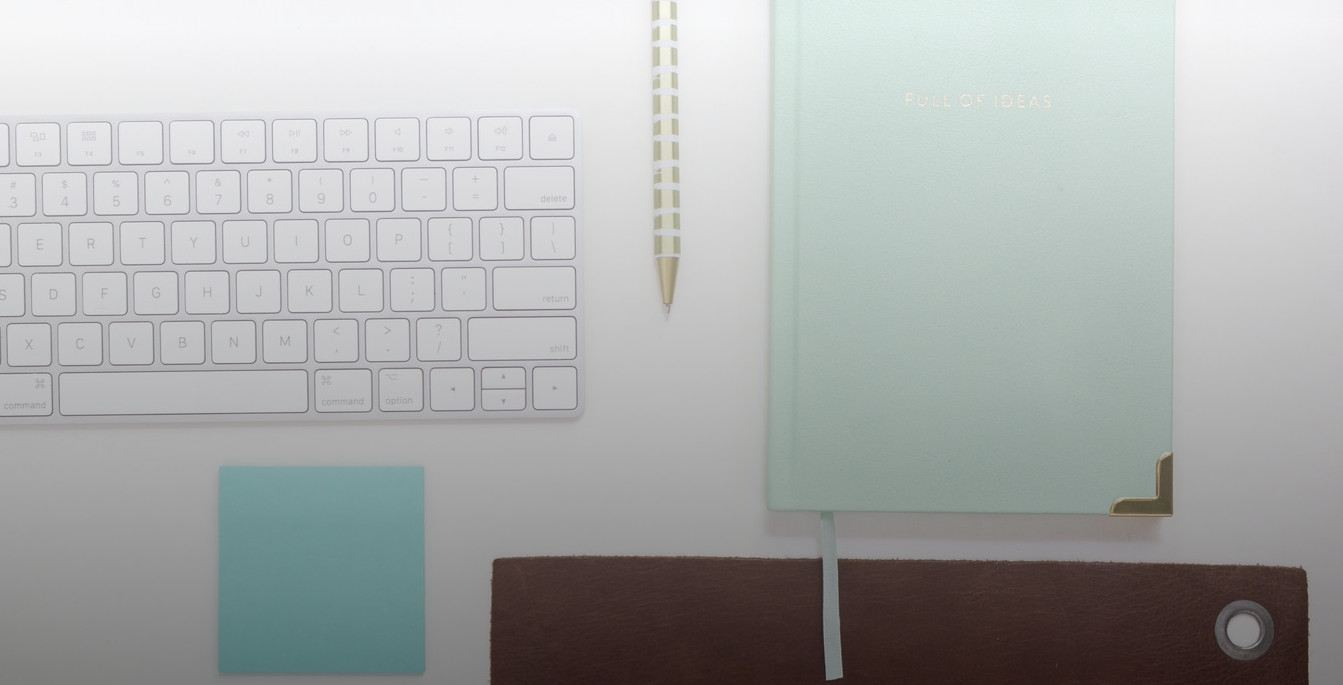
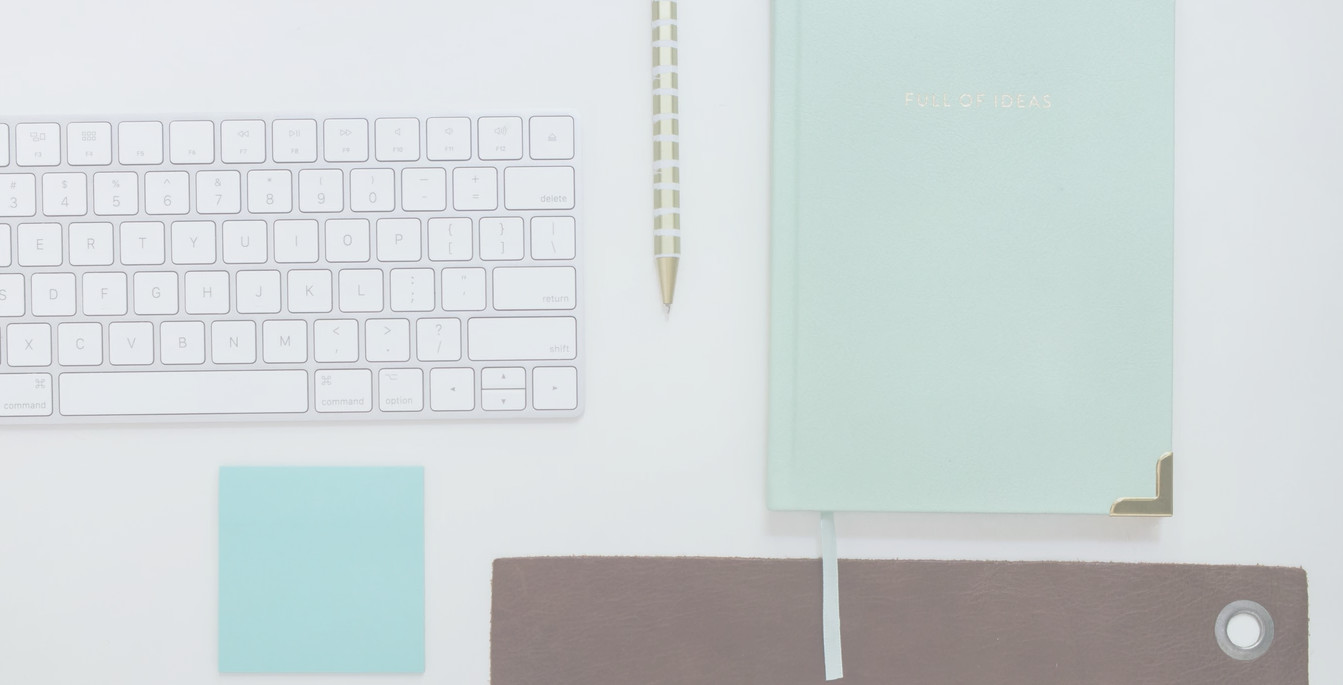
Update 6

diff --git a/assets/css/styles.css b/assets/css/styles.css
@@ -13,7 +13,8 @@
 #15aaa0
 linear-gradient( 175.9deg, #50606F 15%, #497C80 87.6%)
 linear-gradient( 175.9deg,rgba(125, 106, 96, 1) 15%, rgba(85,76,74,1) 87.6%)
-linear-gradient(to right, rgba(232, 241, 255, 0.7), rgba(219, 230, 245, 0.7))
+linear-gradient( 175.9deg, #8092a3 15%, #7aafb3 87.6%);
+
 */
 * {
     margin: 0;
@@ -201,7 +202,7 @@ nav ul li a:hover {
         width: 0;
         height: 100%;
         z-index: -1;
-        background: #fff;
+        background:  linear-gradient(to right, hsla(217, 100%, 97%, 1), hsla(215, 57%, 97%, 1));
         opacity: 0;
         transition: all 0.2s ease;
     }
@@ -327,12 +328,6 @@ nav ul li a:hover {
 https://images.unsplash.com/photo-1460620105278-b7f0516e6d65?ixlib=rb-0.3.5&s=d34783f025ae6d3e8fd5a4d8f932d748&auto=format&fit=crop&w=1350&q=80
 ---------------------------------------------------------------------------------------*/
 header {    
-    background: transparent linear-gradient(rgba(0, 0, 0, 0.5) 20%,rgba(126, 126, 126, 0.5) 100%);
-    background: transparent -moz-linear-gradient(rgba(0, 0, 0, 0.5) 20%,rgba(126, 126, 126, 0.5) 100%);
-    background: transparent -ms-linear-gradient(rgba(0, 0, 0, 0.5) 20%,rgba(126, 126, 126, 0.5) 100%);
-    background: transparent -webkit-linear-gradient(rgba(0, 0, 0, 0.5) 20%,rgba(126, 126, 126, 0.5) 100%);
-    background: transparent -o-linear-gradient(rgba(0, 0, 0, 0.5) 20%,rgba(126, 126, 126, 0.5) 100%);
-    
     background-size:cover;
     background-position: center; 
     background-attachment: fixed;    
@@ -616,7 +611,8 @@ input[type=submit]:active   {
     margin-top: 10px;
 }
 
-slider {    
+.slider slider,
+.text-slider slider {    
     position: relative;
     display: block;
     width: 100%;
@@ -627,9 +623,12 @@ slider {
     margin: 0;
     box-shadow: 0px 22px 68px -9px hsla(209, 16%, 67%, 0.6);
 }
-
+.text-slider slider {
+    background-color: #fff;
+}
 @media screen and (max-width:700px) {
-    slider {    
+    .slider slider,
+    .text-slider slider {    
         position: relative;
         display: block;
         width: 100%;  
@@ -639,9 +638,15 @@ slider {
         padding: 0;
         margin: 0;
     }
+    .text-slider slider {    
+        width: 100%;  
+        height: 200px;
+        background-color: #fff;
+    }
 }
 
-slider > * {    
+.slider slider > * ,
+.text-slider slider > * {    
     position: absolute;
     display: block;
     width: 100%;
@@ -650,8 +655,10 @@ slider > * {
     animation: slide 16s infinite;
     overflow: hidden;    
 }
-
-slide:nth-child(1) {
+.text-slider slider > * {    
+    background: #fff;
+}
+.slider slide:nth-child(1) {
     left: 0%;    
     animation-delay: 0s;
     background-image: url(../img/gabinet1.jpg);    
@@ -660,7 +667,7 @@ slide:nth-child(1) {
     background-position: center;
 }
 
-slide:nth-child(2) {    
+.slider slide:nth-child(2) {    
     animation-delay: 4s;
     background-image: url(../img/gabinet2.jpg);
     background-repeat: no-repeat;
@@ -668,7 +675,7 @@ slide:nth-child(2) {
     background-position: center;
 }
 
-slide:nth-child(3) {    
+.slider slide:nth-child(3) {    
     animation-delay: 8s;
     background-image: url(../img/gabinet3.jpg);
     background-repeat: no-repeat;
@@ -676,14 +683,26 @@ slide:nth-child(3) {
     background-position: center;
 }
 
-slide:nth-child(4) {    
+.slider slide:nth-child(4) {    
     animation-delay: 12s;
     background-image: url(../img/gabinet2.jpg);
     background-repeat: no-repeat;
     background-size: cover;
     background-position: center;    
 }
-
+.text-slider slide:nth-child(1) {
+    left: 0%;  
+    animation-delay: 0s;
+}
+.text-slider slide:nth-child(2) {
+    animation-delay: 4s;
+}
+.text-slider slide:nth-child(3) {
+    animation-delay: 8s;
+}
+.text-slider slide:nth-child(4) {
+    animation-delay: 12s;
+}
 slide .text {    
     width: 33%;
     height: 100%;
@@ -697,12 +716,19 @@ slide .text {
         width: 100%;
         height: 100%;
         background-color: linear-gradient( 175.9deg, hsla(209, 16%, 87%, 0.75) 15%, hsla(184, 27%, 89%, 0.75) 87.6%); 
-        opacity: 1;   
+        opacity: 0;   
     }
-    slide:hover .text,
-    slide:focus .text,
-    slide:active .text {
+    .slider slide:hover .text,
+    .slider slide:focus .text,
+    .slider slide:active .text {
         opacity: 0;
+    }
+    .text-slider slide .text {
+        opacity: 1;
+    }
+    .text-slider slide .text h2 {
+        margin: 0;
+        padding: 30px;
     }
 }
 slide .text p,
@@ -738,7 +764,9 @@ slide .text p {
     100% {left: 100%; width: 0;}
 }
 
-slide:hover .text {
+slide:hover .text,
+slide:focus .text,
+slide:active .text {
     opacity: 1;
 }
 /*----------------------------------------------------------------------------------------------*/
@@ -812,7 +840,15 @@ address {
 .opening p {
     color: #ccc;
     float: left;
-    font-size: 14px;
+    font-size: 18px;
+}
+@media screen and (max-width:900px) {
+    .opening p {
+        color: #ccc;
+        float: left;
+        font-size: 14px;
+        margin-right: 30px;
+    }
 }
 /*----------------------------------------------------------------------------------------------*/
 .footer-nav li {    

diff --git a/kontakt.html b/kontakt.html
@@ -52,7 +52,7 @@
             <div class="row">
                 <div class="doctor col col-sm-4">
                     <h2 align="center"><b>Doktor A</b></h2>
-                    <img alt="Doctor picture" src="https://source.unsplash.com/collection/895539/200x200"/>
+                    <img alt="Doctor picture" src="https://source.unsplash.com/collection/895539/500x500"/>
                     <div class="opis">
                         <p><b>Telefon:</b><br><span style="color:#497C80"><a href="tel:123-456-789">123-456-789</a></span></p>
                         <p><b>Mail:</b><br><a href="mailto:gabinet@gabinet.pl">doktor@doktor.pl</a></p>
@@ -60,7 +60,7 @@
                 </div>
                 <div class="doctor col col-sm-4">
                     <h2 align="center"><b>Doktor A</b></h2>
-                    <img alt="Doctor picture" src="https://source.unsplash.com/collection/895539/200x200"/>
+                    <img alt="Doctor picture" src="https://source.unsplash.com/collection/895539/500x500"/>
                     <div class="opis">
                         <p><b>Telefon:</b><br><span style="color:#497C80"><a href="tel:123-456-789">123-456-789</a></span></p>
                         <p><b>Mail:</b><br><a href="mailto:gabinet@gabinet.pl">doktor@doktor.pl</a></p>
@@ -68,7 +68,7 @@
                 </div>
                 <div class="doctor col col-sm-4">
                     <h2 align="center"><b>Doktor A</b></h2>
-                    <img alt="Doctor picture" src="https://source.unsplash.com/collection/895539/200x200"/>
+                    <img alt="Doctor picture" src="https://source.unsplash.com/collection/895539/500x500"/>
                     <div class="opis">
                         <p><b>Telefon:</b><br><span style="color:#497C80"><a href="tel:123-456-789">123-456-789</a></span></p>
                         <p><b>Mail:</b><br><a href="mailto:gabinet@gabinet.pl">doktor@doktor.pl</a></p>
@@ -78,7 +78,7 @@
             <div class="row">
                 <div class="doctor col col-sm-4">
                     <h2 align="center"><b>Doktor A</b></h2>
-                    <img alt="Doctor picture" src="https://source.unsplash.com/collection/895539/200x200"/>
+                    <img alt="Doctor picture" src="https://source.unsplash.com/collection/895539/500x500"/>
                     <div class="opis">
                         <p><b>Telefon:</b><br><span style="color:#497C80"><a href="tel:123-456-789">123-456-789</a></span></p>
                         <p><b>Mail:</b><br><a href="mailto:gabinet@gabinet.pl">doktor@doktor.pl</a></p>
@@ -86,7 +86,7 @@
                 </div>
                 <div class="doctor col col-sm-4">
                     <h2 align="center"><b>Doktor A</b></h2>
-                    <img alt="Doctor picture" src="https://source.unsplash.com/collection/895539/200x200"/>
+                    <img alt="Doctor picture" src="https://source.unsplash.com/collection/895539/500x500"/>
                     <div class="opis">
                         <p><b>Telefon:</b><br><span style="color:#497C80"><a href="tel:123-456-789">123-456-789</a></span></p>
                         <p><b>Mail:</b><br><a href="mailto:gabinet@gabinet.pl">doktor@doktor.pl</a></p>
@@ -94,7 +94,7 @@
                 </div>
                 <div class="doctor col col-sm-4">
                     <h2 align="center"><b>Doktor A</b></h2>
-                    <img alt="Doctor picture" src="https://source.unsplash.com/collection/895539/200x200"/>
+                    <img alt="Doctor picture" src="https://source.unsplash.com/collection/895539/500x500"/>
                     <div class="opis">
                         <p><b>Telefon:</b><br><span style="color:#497C80"><a href="tel:123-456-789">123-456-789</a></span></p>
                         <p><b>Mail:</b><br><a href="mailto:gabinet@gabinet.pl">doktor@doktor.pl</a></p>

diff --git a/index.html b/index.html
@@ -122,8 +122,36 @@
                             <p>Lorem ipsum dolor sit amet, consectetur adipiscing elit. Nullam ut lacus vitae enim ultrices ultricies nec sit amet turpis.</p>
                         </div>
                     </slide>                        
-            </slider> 
-        </div>                              
+                </slider>
+            </div>
+            <div class="row text-slider">
+                <slider>            
+                    <slide>                                              
+                        <div class="text">                           
+                            <h2>Lorem Ipsum</h2>
+                            <p>Lorem ipsum dolor sit amet, consectetur adipiscing elit. Nullam ut lacus vitae enim ultrices ultricies nec sit amet turpis.</p>
+                        </div>                        
+                    </slide>
+                    <slide>                                          
+                        <div class="text">                           
+                            <h2>Lorem Ipsum</h2>
+                            <p>Lorem ipsum dolor sit amet, consectetur adipiscing elit. Nullam ut lacus vitae enim ultrices ultricies nec sit amet turpis.</p>
+                        </div>
+                    </slide>
+                    <slide>                                            
+                        <div class="text">                           
+                            <h2>Lorem Ipsum</h2>
+                            <p>Lorem ipsum dolor sit amet, consectetur adipiscing elit. Nullam ut lacus vitae enim ultrices ultricies nec sit amet turpis.</p>
+                        </div>
+                    </slide>
+                    <slide>                                              
+                        <div class="text">                           
+                            <h2>Lorem Ipsum</h2>
+                            <p>Lorem ipsum dolor sit amet, consectetur adipiscing elit. Nullam ut lacus vitae enim ultrices ultricies nec sit amet turpis.</p>
+                        </div>
+                    </slide>                        
+                </slider>
+            </div>
         </div>
     
         
@@ -137,19 +165,19 @@
                       
            <div class="col col-md-4">                
                    <h3 align="left">Skontaktuj się z nami</h3>
-                   <address>
-                       <i class="ion-ios-location"></i>
-                       Grabowskiego 5, 24-100 Puławy
-                   </address>
                    <ul class="link-small">
-                       <li><a href="mailto:gabinet@gabinet.pl;">
+                      <li><a href="kontakt.html">
+                          <i class="ion-ios-location"></i>Grabowskiego 5, 24-100 Puławy</a>
+                      </li>                                      
+                       <li><a href="mailto:gabinet@gabinet.pl">
                            <i class="ion-ios-email"></i>gabinet@gabinet.pl</a>
                        </li>
                        <li>
-                          <a><i class="ion-ios-telephone"></i>+48 123-456-789</a>
+                          <a href="tel:123-456-789"><i class="ion-ios-telephone"></i>+48 123-456-789</a>
                        </li>
                        <li>
-                           <a href="#"><i class="ion-social-facebook"></i>Odwiedź nasze social media</a>
+                           <a href="https://www.facebook.com" target="_blank">
+                           <i class="ion-social-facebook"></i>Odwiedź nasze social media</a>
                        </li>  
                    </ul>                  
             </div>

diff --git a/assets/css/contact_style.css b/assets/css/contact_style.css
@@ -20,12 +20,13 @@
     position: absolute;
     left: 50%;
     top: 50%;
-    transform: translate(-50%,-100%);
+    transform: translate(-50%,-75%);
     font-size: 42px; 
     padding: 20px;
     border: 3px solid #497C80;
     color: #393939;
 }
+
 @media screen and (max-width:1010px) {
     .hero h1 { 
         font-size: 36px;
@@ -79,6 +80,11 @@
 .opis {
     width: 100%;
     margin-top: 16px;
+}
+@media screen and (max-width:765px) {
+    .opis p {
+        font-size: 12    5%;
+    }
 }
 @media screen and (max-width:1200px) {
     .doctor img {
